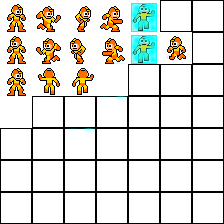
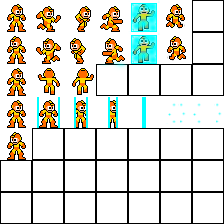
update teleport

Changed region(s): [[0.0, 0.2812, 1.0, 0.7188], [0.6875, 0.0, 0.875, 0.1562]]

diff --git a/MazeRunner-Netbeans/src/Model/Character/Human.java b/MazeRunner-Netbeans/src/Model/Character/Human.java
@@ -20,21 +20,23 @@ import org.lwjgl.input.Keyboard;
  */
 public class Human extends Characters {
 
-    Animation run, jump, climb, freeze;
+    Animation run, jump, climb, freeze,finTeleportation;
 
     int dir = 0;
     float speed = 1.5f;
     boolean freezed = false;
-    int test = 0;
+    int testFreeze = 0;
     boolean teleport = false;
+    boolean teleportEnd = false;
     char lastKey;
     public Human(int x, int y) {
         super(x, y);
         texture = Texture.human;
-        run = new Animation(1, 2, 4, 5, true);
-        jump = new Animation(1, 1, 1, 5, true);
-        climb = new Animation(1, 2, 3, 5, true);
-        freeze = new Animation(5, 5, 5, 5, true);
+        run = new Animation(1, 2, 4, 5, true,false);
+        jump = new Animation(1, 1, 1, 5, true,false);
+        climb = new Animation(1, 2, 3, 5, true,false);
+        freeze = new Animation(5, 5, 5, 5, true,false);
+        finTeleportation = new Animation(1,5,5,2,false,true);
 
         mass = 0.1f;
         friction = 0.95f;
@@ -52,9 +54,11 @@ public class Human extends Characters {
         climb.update();
         climb.pause();
         freeze.update();
+        finTeleportation.update();
+        finTeleportation.pause();
 
         if (Keyboard.isKeyDown(Keyboard.KEY_Z) || Keyboard.isKeyDown(Keyboard.KEY_W) || Keyboard.isKeyDown(Keyboard.KEY_UP)) {
-            if (isGrounded()) {
+            if (isGrounded()||isTeleport()) {
                 ya -= 3.8f;
                 dir = 2;
                 run.play();
@@ -116,11 +120,11 @@ public class Human extends Characters {
             long duration = 0;
             int random_duration = (int) (1 + (Math.random() * (3 - 1)));
             freeze.play();
-            test++;
+            testFreeze++;
 
-            if (test == 2) {
+            if (testFreeze == 2) {
                 freezed = true;
-                test = 0;
+                testFreeze = 0;
 
                 while ((duration < random_duration * 1000) && (freeze.getPlaying())) {
 
@@ -183,13 +187,22 @@ public class Human extends Characters {
             if(numFuturHyperSquare != -2){
                 int x = Level.getXHyperSquare(numFuturHyperSquare);
                 int y = Level.getYHyperSquare(numFuturHyperSquare)-1;
-            
+         
                 if((teleport==false)&&(x>0)&&(y>0)){
                  setPosition(x,y);
                  teleport=true;
+                 teleportEnd = true;
+                 
                 }
+              /*  if (teleportEnd){
+                    finTeleportation.play();
+                    dir = 3;
+                   teleportEnd = false;
+                }*/
+                
+                
             }
-        }else{
+        }else if(isBrick()){
             teleport=false;
         }
         
@@ -205,7 +218,10 @@ public class Human extends Characters {
         } else if (freeze.getPlaying()) {
             renderCharacters(x, y, 16, 16, Color.WHITE, sizeSpriteSheet, freeze.getCurrentFrame(), 0 + dir);
 
-        } else {
+        } else if (finTeleportation.getPlaying()) {
+            renderCharacters(x, y, 16, 16, Color.WHITE, sizeSpriteSheet, finTeleportation.getCurrentFrame(), 0 + dir);
+
+        }else  {
 
             renderCharacters(x, y, 16, 16, Color.WHITE, sizeSpriteSheet, run.getCurrentFrame(), 0 + dir);
         }

diff --git a/MazeRunner-Netbeans/src/Model/Character/Characters.java b/MazeRunner-Netbeans/src/Model/Character/Characters.java
@@ -43,7 +43,7 @@ public abstract class Characters {
 
     public boolean isApple() {
 
-        if (level.getAppleSquare((int) (x + 7.9f) / 16, (int) (y + 16) / 16) != null) {
+        if (level.getAppleSquare((int) (x + 8.9f) / 16, (int) (y + 16) / 16) != null) {
             return true;
         }
 
@@ -52,7 +52,7 @@ public abstract class Characters {
 
     public boolean isLadder() {
 
-        if (level.getLadderSquare((int) (x + 7.9f) / 16, (int) (y + 16) / 16) != null) {
+        if ((level.getLadderSquare((int) (x + 3.8f) / 16, (int) (y + 16) / 16) != null)&&(level.getLadderSquare((int) (x + 8.9f) / 16, (int) (y + 16) / 16) != null)&&(level.getLadderSquare((int) (x + 13) / 16, (int) (y + 16) / 16) != null)) {//gauche && milieu && droite
             return true;
         }
 
@@ -63,7 +63,7 @@ public abstract class Characters {
 
         //taille bordure
         int x0 = (int) (x + xa + 3.8f) / 16;
-        int x1 = (int) (x + xa + 13) / 16;
+        int x1 = (int) (x + xa + 14) / 16;
         int y0 = (int) (y + ya + 2) / 16;
         int y1 = (int) (y + ya + 15.8) / 16;
 
@@ -114,10 +114,10 @@ public abstract class Characters {
         if (level.getFreezeSquare((int) (x + 3.8f) / 16, (int) (y + 16) / 16) != null) { //gauche
             return true;
         }
-        if (level.getFreezeSquare((int) (x + 12) / 16, (int) (y + 16) / 16) != null) { //droite
+        if (level.getFreezeSquare((int) (x + 13) / 16, (int) (y + 16) / 16) != null) { //droite
             return true;
         }
-        if (level.getFreezeSquare((int) (x + 7.9f) / 16, (int) (y + 16) / 16) != null) {//milieu
+        if (level.getFreezeSquare((int) (x + 8.9f) / 16, (int) (y + 16) / 16) != null) {//milieu
             return true;
         }
 
@@ -149,7 +149,16 @@ public abstract class Characters {
     
      public boolean isTeleport() {
 
-        if ((level.getHyperSquare((int) (x + 3.8f) / 16, (int) (y + 16) / 16) != null)&&(level.getHyperSquare((int) (x + 7.9f) / 16, (int) (y + 16) / 16) != null)&&(level.getHyperSquare((int) (x + 12) / 16, (int) (y + 16) / 16) != null)) {//gauche && milieu && droite
+        if ((level.getHyperSquare((int) (x + 3.8f) / 16, (int) (y + 16) / 16) != null)&&(level.getHyperSquare((int) (x + 8.9f) / 16, (int) (y + 16) / 16) != null)&&(level.getHyperSquare((int) (x + 13) / 16, (int) (y + 16) / 16) != null)) {//gauche && milieu && droite
+            return true;
+        }
+
+        return false;
+    }
+     
+     public boolean isBrick() {
+
+         if ((level.getSolidSquare((int) (x + 3.8f) / 16, (int) (y + 16) / 16) != null)&&(level.getSolidSquare((int) (x + 8.9f) / 16, (int) (y + 16) / 16) != null)&&(level.getSolidSquare((int) (x + 13) / 16, (int) (y + 16) / 16) != null)) {//gauche && milieu && droite
             return true;
         }
 
@@ -161,7 +170,7 @@ public abstract class Characters {
         if (level.getSolidSquare((int) (x + 3.8f) / 16, (int) (y + 16) / 16) != null) {
             return true;
         }
-        if (level.getSolidSquare((int) (x + 12) / 16, (int) (y + 16) / 16) != null) {
+        if (level.getSolidSquare((int) (x + 13) / 16, (int) (y + 16) / 16) != null) {
             return true;
         }
 

diff --git a/MazeRunner-Netbeans/src/Graphics/Animation.java b/MazeRunner-Netbeans/src/Graphics/Animation.java
@@ -11,23 +11,26 @@ package Graphics;
  */
 public class Animation {
 
-    private int frame = 0;
+    private int frame;
     private int length;
     private int speed;
     private int firstFrame;
     private int resetFrame;
+    private int fakeFrame=0;
+    private boolean reverse = false;
     private boolean loop = false;
 
     private boolean playing = false;
     private int time = 0;
 
-    public Animation(int resetFrame, int firstFrame, int lastFrame, int speed, boolean loop) {
+    public Animation(int resetFrame, int firstFrame, int lastFrame, int speed, boolean loop, boolean reverse) {
 
         this.firstFrame = firstFrame;
         this.length = lastFrame;
         this.speed = speed;
         this.loop = loop;
         this.resetFrame = resetFrame;
+        this.reverse = reverse;
     }
 
     public void update() {
@@ -35,6 +38,24 @@ public class Animation {
         if (playing) {
             time++;
             if (time > speed) {
+                
+                if(reverse){
+                    if(frame==0){
+                        frame=firstFrame-1;
+                    }
+                    frame --;
+                    fakeFrame++;
+                    if (fakeFrame >= length) {
+                    if (loop) {
+                        frame = firstFrame - 1;
+                        fakeFrame = 0;
+                    } else {
+                        fakeFrame = length;
+                        frame = resetFrame-1;
+                    }
+                }
+                }else{
+                
                 frame++;
                 if (frame >= length) {
                     if (loop) {
@@ -43,10 +64,12 @@ public class Animation {
                         frame = length;
                     }
                 }
+                }
                 time = 0;
             }
         } else {
             frame = resetFrame - 1;
+            fakeFrame = 0;
         }
 
     }
